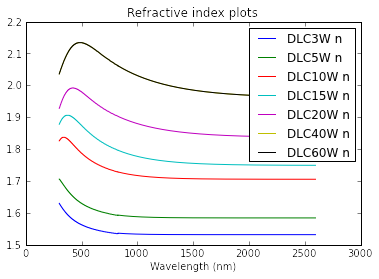
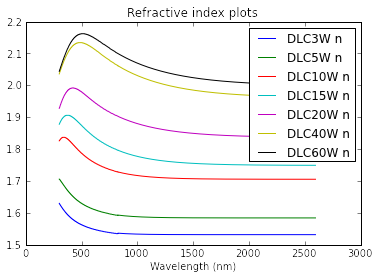
DLC60W was mixed with DLC40W. Fixed.

diff --git a/nklib.py b/nklib.py
@@ -152,9 +152,9 @@ class DLC60W(st.Layer):
     extrapolated. See associated image files in the nklib folder.
     '''
     def __init__(self, thickness, unit='nm', extended=True):
-        wl = _DLC40W_ext_wl if extended else _DLC40W_wl
+        wl = _DLC60W_ext_wl if extended else _DLC60W_wl
         wl = wl / 1e3 if unit == 'micron' else wl
-        n = _DLC40W_ext_nk if extended else _DLC40W_nk
+        n = _DLC60W_ext_nk if extended else _DLC60W_nk
         label = 'DLC60W'
         st.Layer.__init__(self, wl, n, thickness, label=label, unit=unit)
 
